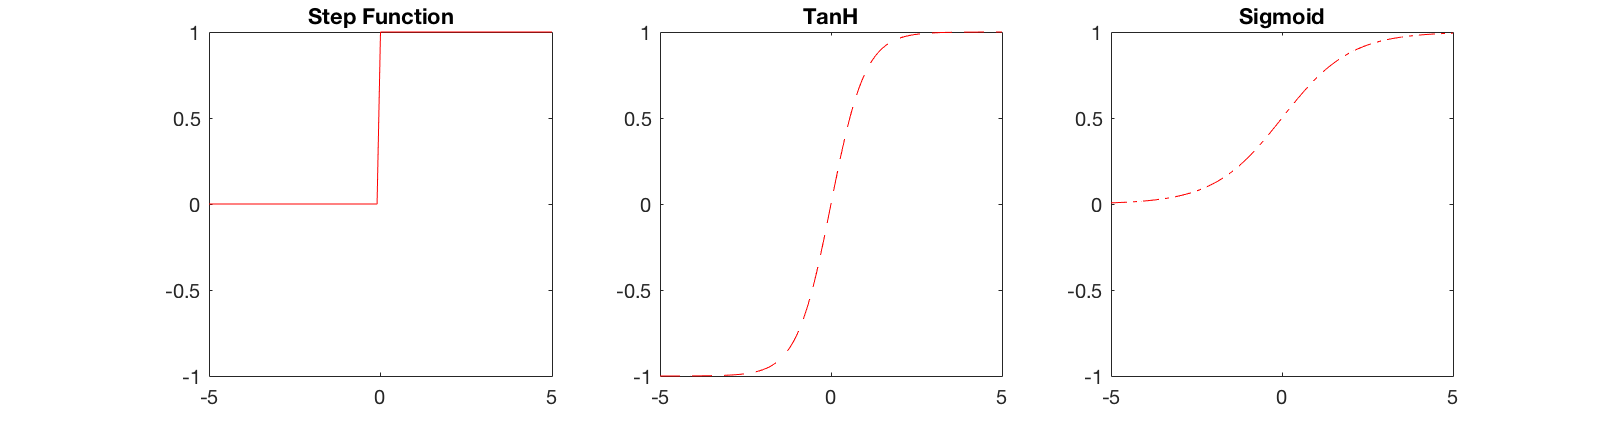
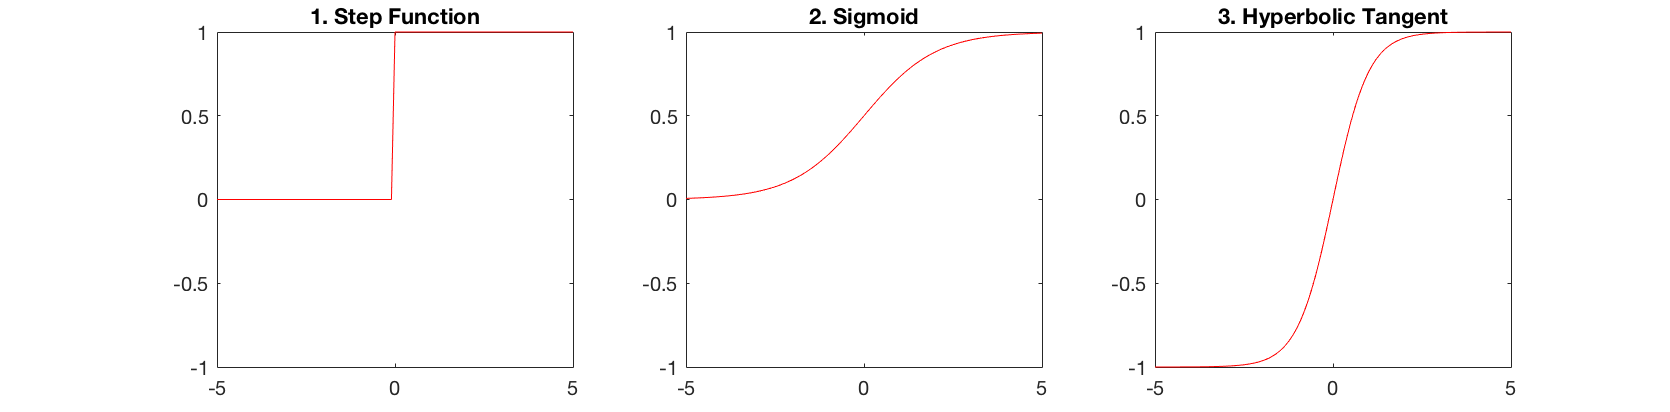
changed activation function plot, generated example loss function plot

diff --git a/matlab/activation_function_plots.m b/matlab/activation_function_plots.m
@@ -1,40 +1,55 @@
-% fplot(@(x) (1+exp(-x))^(-1),[-5 5],'b', 'LineWidth', 1)
-% grid on
-% hold on
-% ylabel('sigmoid');
-% fplot(@(x) tanh(x),[-5 5],'g-.', 'LineWidth', 1)
-% hold on
-% ylabel('tanh');
-% fplot(@(x) y(x),[-5 5],'r--', 'LineWidth', 1)
-% hold on
-% ylabel('step function');
+one = false;
+two = true;
 
-x = -5:0.1:5;
+if one
+    x = -5:0.1:5;
 
-for idx = 1:numel(x)
-    if x(idx)<0
-        y1(idx) = 0;
-    else
-        y1(idx) = 1;
+    for idx = 1:numel(x)
+        if x(idx)<0
+            y1(idx) = 0;
+
+        else
+            y1(idx) = 1;
+        end 
+    end
+
+    for idx = 1:numel(x)
+        y2(idx) = 1/(1+exp(-x(idx)));
+    end
+
+    figure
+    subplot(1,3,1)       % add first plot in 2 x 1 grid
+    plot(x,y1,'red')
+    axis([-5 5 -1 1])
+    title('1. Step Function')
+
+    subplot(1,3,2)       % add second plot in 2 x 1 grid
+    plot(x,y2,'red')       % plot using + markers
+    axis([-5 5 -1 1])
+    title('2. Sigmoid')
+
+    subplot(1,3,3)       % add second plot in 2 x 1 grid
+    plot(x,tanh(x),'red')       % plot using + markers
+    axis([-5 5 -1 1])
+    title('3. Hyperbolic Tangent')
+end
+
+if two
+    x = -5:0.1:100;
+
+   for idx = 1:numel(x)
+        % y(idx) = exp(-x(idx)/20)+sin(x(idx)*2)*x(idx)/3000+x(idx)/2000;
+        y(idx) = exp(-x(idx)/20)+(rand(1)-1)/15+x(idx)/1500+0.035;
     end 
+
+    figure
+    subplot(1,2,1)       % add first plot in 2 x 1 grid
+    plot(x,exp(-x/20),'red')
+    axis([0 100 0 1])
+    title('1. Desired Loss')
+
+    subplot(1,2,2)       % add second plot in 2 x 1 grid
+    plot(x,y,'red')       % plot using + markers
+    axis([0 100 0 1])
+    title('2. Overfitted Loss')
 end
-
-for idx = 1:numel(x)
-    y2(idx) = 1/(1+exp(-x(idx)));
-end
-
-figure
-subplot(1,3,1)       % add first plot in 2 x 1 grid
-plot(x,y1,'red')
-axis([-5 5 -1 1])
-title('Step Function')
-
-subplot(1,3,2)       % add second plot in 2 x 1 grid
-plot(x,tanh(x),'red--')       % plot using + markers
-axis([-5 5 -1 1])
-title('TanH')
-
-subplot(1,3,3)       % add second plot in 2 x 1 grid
-plot(x,y2,'red-.')       % plot using + markers
-axis([-5 5 -1 1])
-title('Sigmoid')
